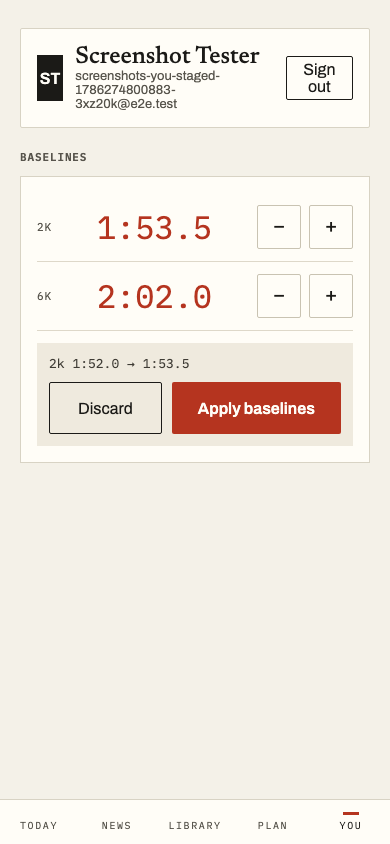
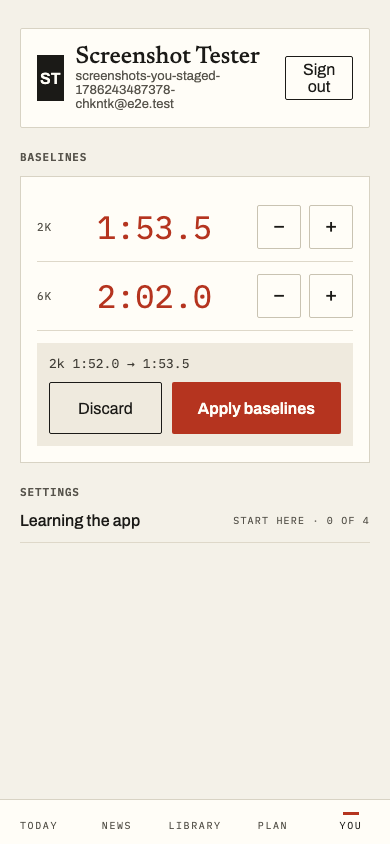
docs: screenshots for the Learning screen, You's settings row, and News's third pin
pnpm screenshots recapture: you.png/you-staged.png now show You's new
SETTINGS section; you-learning.png is new (/you/learning, dismissed,
one step read); news.png is recaptured with the Start-here pin first in
PINNED, per the phase spec's own screenshot obligation.

screenshots.spec.ts: adds dismissStartHere/markArticleRead helpers, a
you-learning test, and dismisses start-here before the news capture.

today*.png/news-reader.png also churned in this run (shared compose
stack, unrelated fixture/date drift) — reverted, not part of this diff.

Claude-Session: https://claude.ai/code/session_01KY9P1bYNt9uJ4hgTN18TgH

diff --git a/app/e2e/screenshots.spec.ts b/app/e2e/screenshots.spec.ts
@@ -40,6 +40,40 @@ async function setBaselines(page: Page): Promise<void> {
   }
 }
 
+/** Phase 6I Task 7: dismisses START HERE on Today via an in-page fetch —
+ *  same real-networking reasoning as `setBaselines` above — so a screenshot
+ *  can show News's own Start-here pin (only visible once dismissed) and
+ *  the Learning screen's own dismissed status line/PUT IT BACK control,
+ *  rather than the empty/never-dismissed state. */
+async function dismissStartHere(page: Page): Promise<void> {
+  const result = await page.evaluate(async () => {
+    const res = await fetch("/api/prefs", {
+      method: "PUT",
+      headers: { "Content-Type": "application/json" },
+      body: JSON.stringify({ startHereDismissed: true }),
+    });
+    return { ok: res.ok, status: res.status, body: await res.text() };
+  });
+  if (!result.ok) {
+    throw new Error(
+      `dismiss start-here failed: ${result.status} ${result.body}`,
+    );
+  }
+}
+
+/** Marks a single article slug read via an in-page fetch — used to give the
+ *  Learning screen's own progress line/pin meta a real, non-zero count
+ *  rather than a fresh account's 0 OF 4. */
+async function markArticleRead(page: Page, slug: string): Promise<void> {
+  const result = await page.evaluate(async (s) => {
+    const res = await fetch(`/api/article-reads/${s}`, { method: "PUT" });
+    return { ok: res.ok, status: res.status };
+  }, slug);
+  if (!result.ok) {
+    throw new Error(`mark read failed: ${result.status}`);
+  }
+}
+
 /** Neutralises `.tabbar`'s `position: fixed` for a `fullPage: true` capture.
  *  A full-page screenshot on a document taller than the viewport stitches
  *  it together from scrolled segments; a fixed-position element gets
@@ -760,6 +794,25 @@ test("you-staged", async ({ page }) => {
   });
 });
 
+// Phase 6I Task 7: You › Learning the app — dismissed on Today (so the
+// status line/PUT IT BACK ON TODAY control both render, not just the
+// baseline empty state) with one of the four steps already read (a real,
+// non-zero progress count), the realistic state a rower actually reaches
+// this screen from rather than a brand-new account's 0 OF 4.
+test("you-learning", async ({ page }) => {
+  await signInViaBackdoor(page, {
+    email: "screenshots-you-learning@e2e.test",
+    name: "Screenshot Tester",
+  });
+  await dismissStartHere(page);
+  await markArticleRead(page, "baselines");
+  await page.goto("/you/learning");
+  await page.locator(".learning-progress-count").waitFor();
+  await page.screenshot({
+    path: path.join(SCREENSHOTS_DIR, "you-learning.png"),
+  });
+});
+
 // Phase 6B (Task 5): the pre-workout countdown, live timer (portrait +
 // 844×420 landscape), and session-complete screens. Every capture drives a
 // bulk-imported, non-empty workout through the real START -> countdown ->
@@ -1116,8 +1169,13 @@ test("news", async ({ page }) => {
     email: "screenshots-news@e2e.test",
     name: "Screenshot Tester",
   });
+  // Phase 6I Task 7: dismissed first, so this capture is "News recaptured
+  // with the third pin" (the phase spec's own screenshot obligation) —
+  // Start-here now sits above the two permanent explainers.
+  await dismissStartHere(page);
   await page.goto("/news");
   await page.locator(".news-unread-count").waitFor();
+  await page.locator(".news-pin-starthere").waitFor();
 
   const workoutTypesRow = page.locator(
     'a.news-row[href="/news/workout-types"]',
